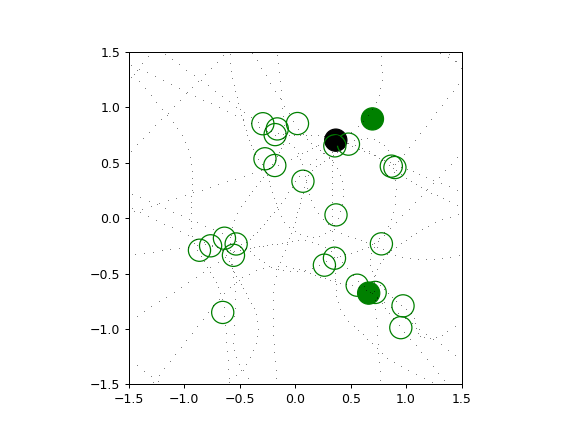
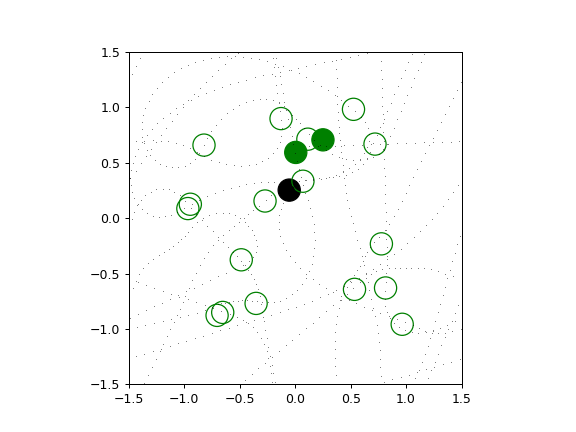
Begun adding detection for other robots

diff --git a/evolve.py b/evolve.py
@@ -75,13 +75,12 @@ def simulate_trial(controllers, trial_index, generating_animation=False):
     score = [0 for _ in range(PER_GROUP)]
 
     # reset the robot
-    robots = [Robot()] * PER_GROUP
+    robots = [Robot() for _ in range(PER_GROUP)]
     for i in range(len(robots)):
         robots[i] = Robot()
         robots[i].x = random.uniform(0, 1)
         robots[i].y = random.uniform(0, 1)
         robots[i].a = random.uniform(0, 1)
-
     # get the controller for the robot from the population
     for controller in controllers:
         controller.trial_data = {}
@@ -178,6 +177,13 @@ def simulate_trial(controllers, trial_index, generating_animation=False):
                     food_b[i] += 20.0 * DT
                     controllers[i].trial_data['eaten_FOOD_positions'].append((light.x, light.y))
                     light.x, light.y = random_light_position(robots)  # relocate entity
+
+        for i in range(len(controllers)):
+            for light in robots[i].otherRobots:
+                if (robots[i].x - light.x) ** 2 + (robots[i].y - light.y) ** 2 < ENTITY_RADIUS ** 2:
+                    food_b[i] += 20.0 * DT
+                    controllers[i].trial_data['eaten_FOOD_positions'].append((light.x, light.y))
+                    # Add code for determining whole wins the fight
 
         # check for WATER collisions
         """for light in robot.lights[EntityTypes.WATER]:
